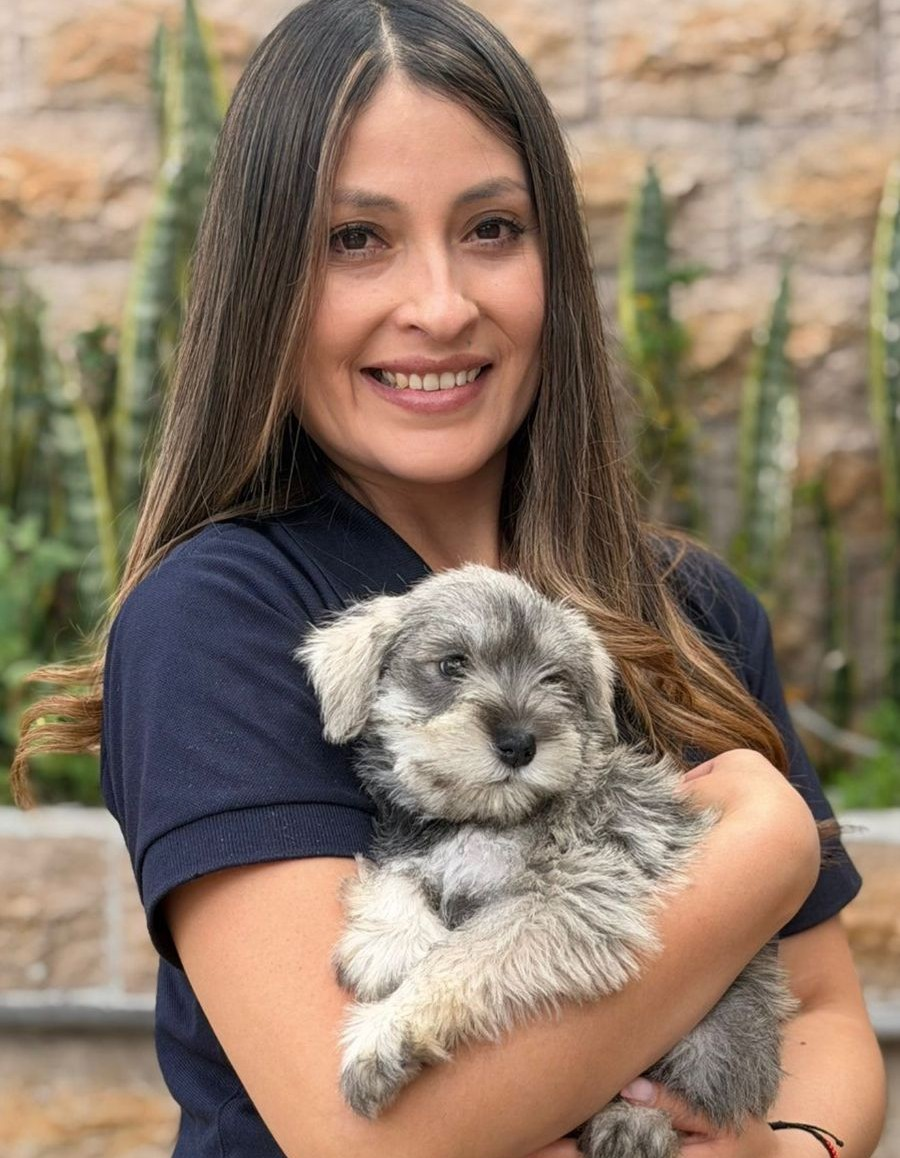
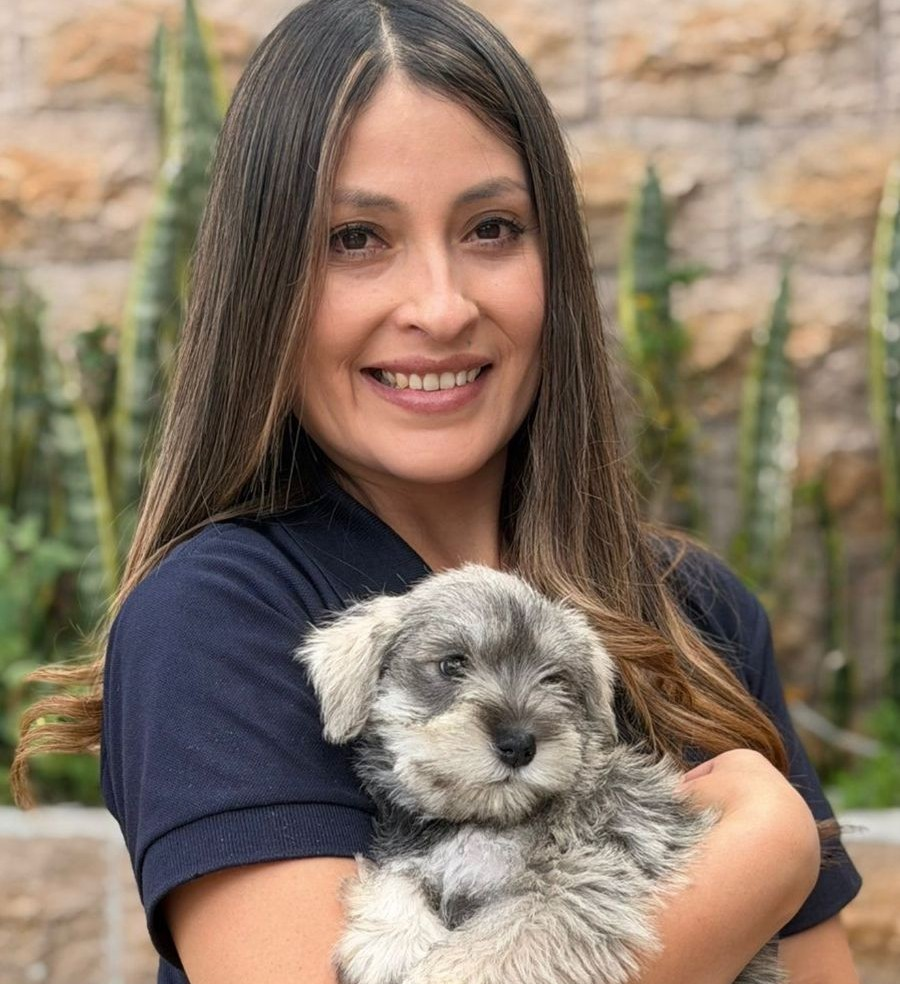
recortes 2

diff --git a/js/gallery-data.js b/js/gallery-data.js
@@ -2,7 +2,7 @@
 const CACHORROS = [
   { img: "images/maltipoo.jpeg", nombre: "Maltipoo", detalle: "Hembra\n2 meses" },
   { img: "images/husky1.jpeg", nombre: "Husky", detalle: "Hembra\n2 meses" },
-  { img: "images/g03_goldendoodle.jpg", nombre: "💫Goldendoodle💫", detalle: "Macho\n2 meses" },
+  { img: "images/bulldog.jpeg", nombre: "💫Bulldog Fránces Fuffly💫", detalle: "Hembra\n2 meses" },
   { img: "images/chow.jpeg", nombre: "Chow Chow", detalle: "Macho\n2 meses" },
   { img: "images/g05_caniche_mini_chocolate.jpeg", nombre: "💫Caniche Mini Chocolate💫", detalle: "Macho\n2 meses" },
   { img: "images/chihuahua.jpeg", nombre: "Chihuahua", detalle: "Hembra\n2 meses" },
